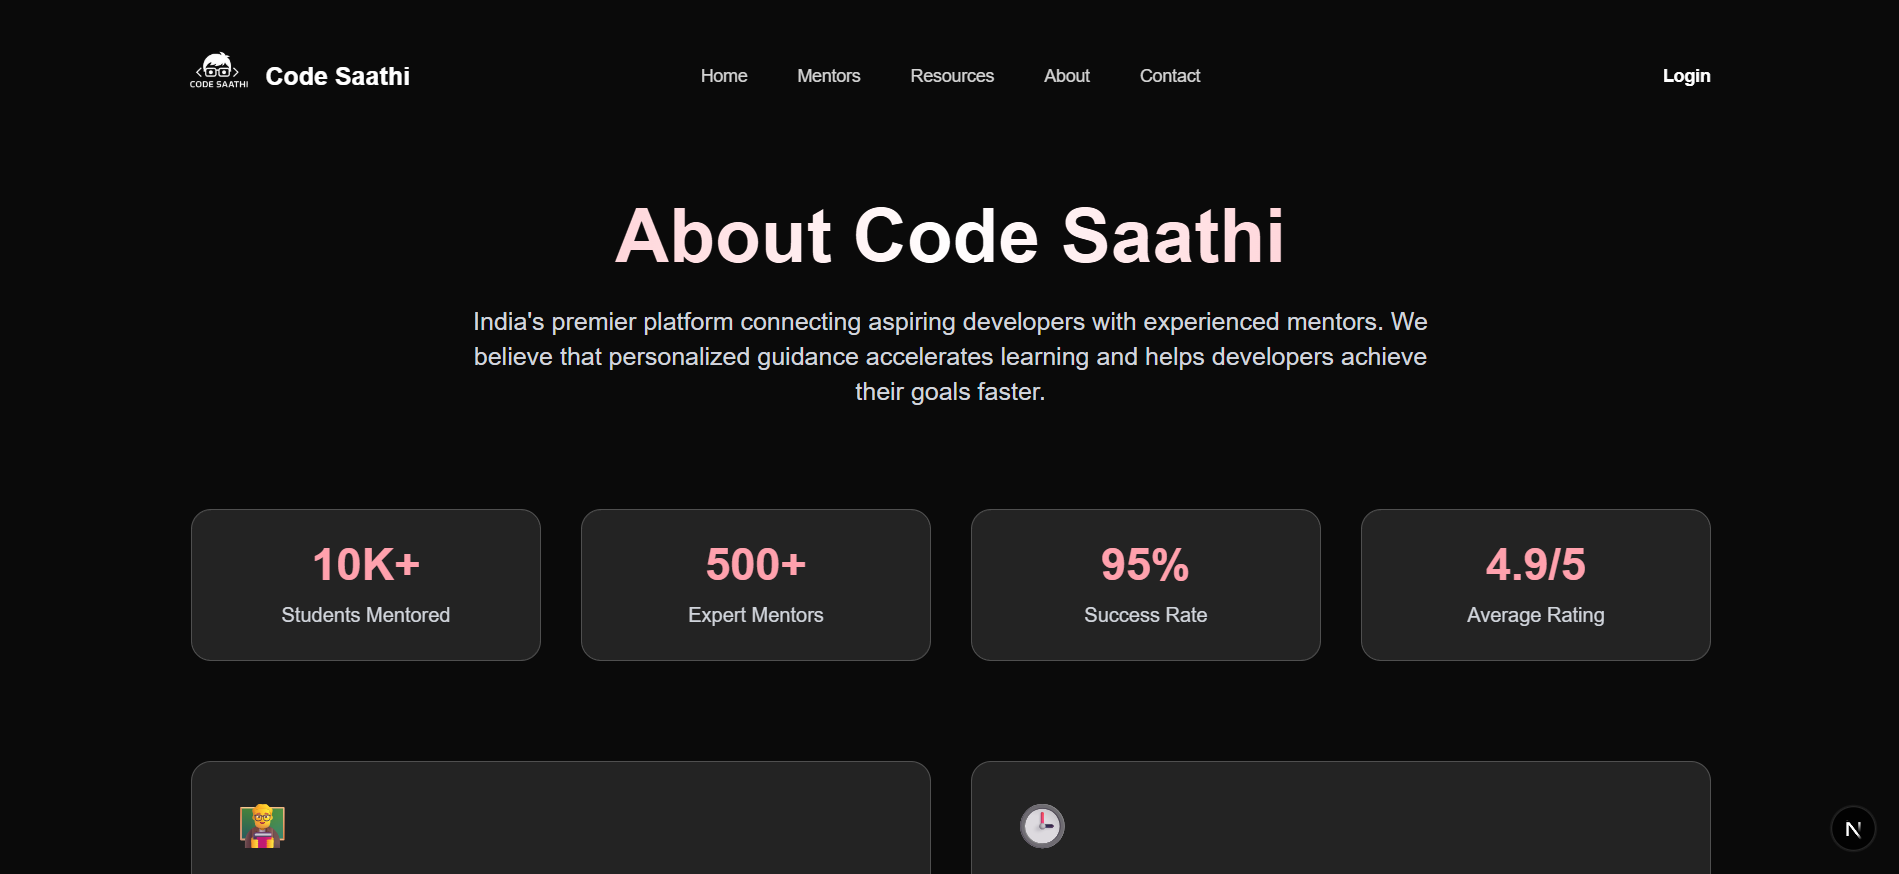
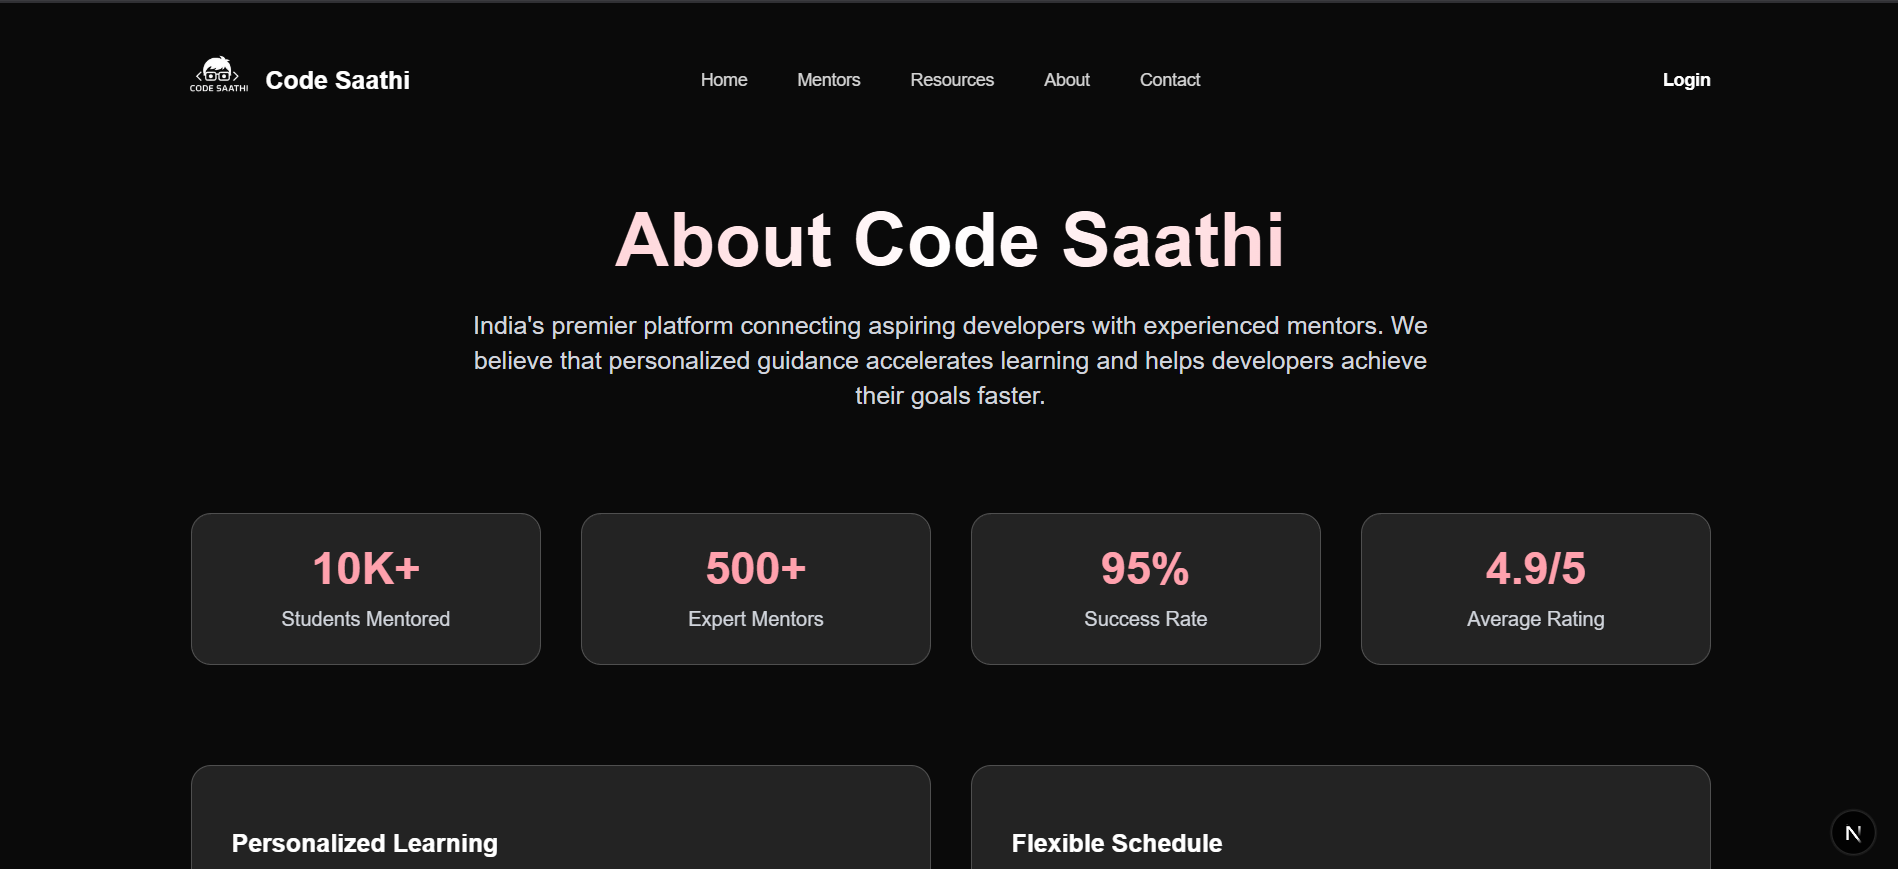
Some final touches

diff --git a/app/about/page.js b/app/about/page.js
@@ -19,27 +19,27 @@ export default function AboutPage() {
     {
       title: "Personalized Learning",
       description: "Get one-on-one attention from industry experts who tailor their teaching to your needs.",
-      icon: "👨🏫"
+      
     },
     {
       title: "Flexible Schedule",
       description: "Book sessions at your convenience, with mentors available across different time zones.",
-      icon: "🕒"
+     
     },
     {
       title: "Real-world Projects",
       description: "Work on practical projects that enhance your portfolio and job-ready skills.",
-      icon: "💼"
+      
     },
     {
       title: "Career Guidance",
       description: "Get insights into industry trends and career paths from experienced professionals.",
-      icon: "🎯"
+      
     }
   ];
 
   return (
-    <div className="min-h-screen bg-neutral-950 py-40">
+    <div suppressHydrationWarning={true} className="min-h-screen bg-neutral-950 py-40">
       
       <div className="max-w-7xl mx-auto px-4 sm:px-6 lg:px-8">
         {/* Hero Section */}

diff --git a/components/ui/type-writer.jsx b/components/ui/type-writer.jsx
@@ -88,14 +88,14 @@ export default function TypewriterTitle({
     ]);
 
     return (
-        (<div className="relative w-full max-w-4xl mx-auto ">
+        (<div suppressHydrationWarning={true} className="relative w-full max-w-4xl mx-auto ">
             <div
                 className="relative text-center z-10 flex flex-col items-center justify-center"
                 ref={scope}>
                 <motion.div
                     className="text-md md:text-xl font-mono text-black dark:text-white tracking-tight flex items-center gap-2"
                     initial={{ opacity: 0 }}
-                    animate={{ opacity: 1 }}>
+                    animate={{ opacity: 1 }}>   
                     <span
                         data-typewriter
                         className="inline-block animate-cursor pr-1">

diff --git a/components/ui/background-paths.jsx b/components/ui/background-paths.jsx
@@ -249,10 +249,10 @@ const AnimatedTitle = memo(function AnimatedTitle({
                 </h1>
             </motion.div>
             <motion.div custom={2} variants={fadeUpVariants} initial="hidden" animate="visible">
-                <p
+                <div
                     className="text-base sm:text-lg md:text-xl text-black/40 dark:text-white/40 mb-8 leading-relaxed font-light tracking-wide max-w-xl mx-auto px-4">
                     <TypewriterTitle />
-                </p>
+                </div>
                 <Button
               variant="outline"
               className="group border-rose-300 text-rose-200 hover:bg-rose-100/10 hover:text-rose-400 transition-all px-6 py-3 rounded-xl text-base font-semibold inline-flex items-center gap-2"

diff --git a/app/mentors/page.js b/app/mentors/page.js
@@ -220,7 +220,7 @@ export default function MentorsPage() {
   };
 
   return (
-    <div className="min-h-screen py-40">
+    <div suppressHydrationWarning={true} className="min-h-screen py-40">
       <div className="max-w-7xl mx-auto px-4 sm:px-6 lg:px-8">
         <div className="mb-10 flex flex-col md:flex-row md:items-center md:justify-between gap-4">
           <div className="flex flex-col md:flex-row items-center gap-2 justify-between w-full">

diff --git a/app/contact/page.js b/app/contact/page.js
@@ -24,22 +24,18 @@ export default function ContactPage() {
     {
       title: "Email",
       value: "hello@codesaathi.com",
-      icon: "📧"
     },
     {
       title: "Phone",
       value: "+91 98765 xxxxx",
-      icon: "📱"
     },
     {
       title: "Location",
       value: "Delhi, India",
-      icon: "📍"
     },
     {
       title: "Hours",
       value: "24/7 Support",
-      icon: "⏰"
     }
   ];
 

diff --git a/app/layout.js b/app/layout.js
@@ -16,7 +16,7 @@ export default function RootLayout({ children }) {
   return (
     <html suppressHydrationWarning={true} lang="en">
       <head />
-      <body className="min-h-screen bg-neutral-950">
+      <body suppressHydrationWarning={true} className="min-h-screen bg-neutral-950">
         <Navigation />
         {children}
         <Footer />

diff --git a/app/resources/page.js b/app/resources/page.js
@@ -133,7 +133,7 @@ export default function ResourcesPage() {
   };
 
   return (
-    <div className="min-h-screen bg-neutral-950 py-24">
+    <div suppressHydrationWarning={true} className="min-h-screen bg-neutral-950 py-40">
       <div className="max-w-6xl mx-auto px-4 sm:px-6 lg:px-8">
         <div className="mb-10">
           <ActionSearchBar

diff --git a/README.md b/README.md
@@ -6,6 +6,13 @@
 
 ---
 
+## ⚡ Performance Note
+> **On first run, pages may take extra time to load as Next.js compiles them locally. This is normal and depends on your PC specs.**
+>
+> This does **not** reflect the real-world speed of the website. For an accurate speed test, visit each page once to let it build, then reload or navigate again—subsequent loads will show the true performance you would get in production or after deployment.
+
+---
+
 ## 📝 Submission Notes
 - **Participant:** Zaid Ahmed Ansari
 - **Competition:** Web Dev Quiz Showdown by Code Saathi
@@ -27,6 +34,7 @@ Code Saathi helps aspiring developers connect with experienced mentors, discover
 - **Animations**: Framer Motion for smooth transitions.
 - **Navbar & Footer**: Translucent, modern, and consistent across pages.
 - **Toast Notifications**: User feedback for actions (e.g., copying links).
+- **Login Button (Navbar)**: Present as a placeholder for future authentication features. **It does not function in this demo.**
 
 ---
 
